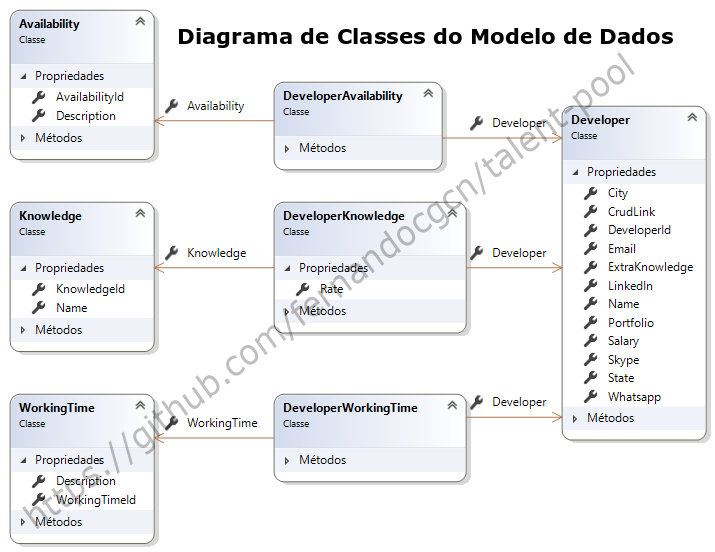
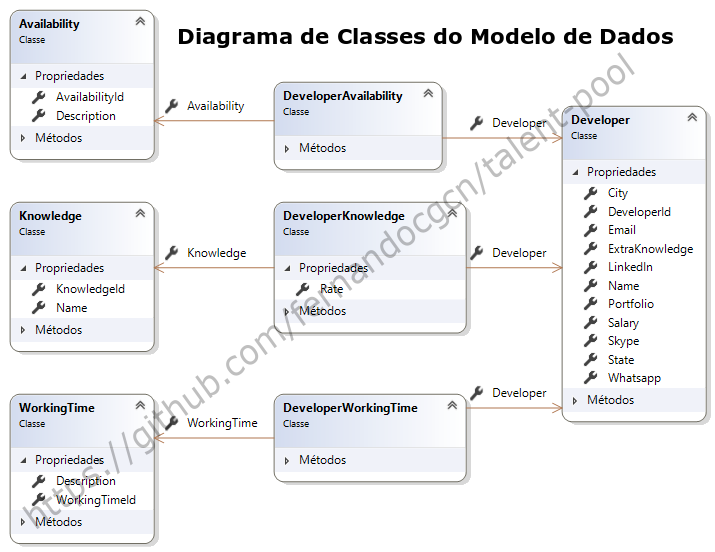
Exclusão do Atributo CrudLink

Changed region(s): [[0.6462, 0.3696, 1.0, 0.8007]]

diff --git a/src/TPData/Configurations/DeveloperConfiguration.cs b/src/TPData/Configurations/DeveloperConfiguration.cs
@@ -41,8 +41,6 @@ namespace TPData.Configurations
                 .HasColumnName("dev_portfolio");
             builder.Property(entity => entity.ExtraKnowledge)
                 .HasColumnName("dev_extra_knowledge");
-            builder.Property(entity => entity.CrudLink)
-                .HasColumnName("dev_crud_link");
 
             builder.HasKey(entity => entity.DeveloperId);
             builder.HasIndex(entity => entity.Email)

diff --git a/src/TPModel/Models/Developer.cs b/src/TPModel/Models/Developer.cs
@@ -47,9 +47,6 @@ namespace TPModel.Models
         [Display(Name = nameof(ExtraKnowledge), ResourceType = typeof(Labels))]
         public string ExtraKnowledge { get; set; }
 
-        [Display(Name = nameof(CrudLink), ResourceType = typeof(Labels))]
-        public string CrudLink { get; set; }
-
         public override bool Equals(object obj)
         {
             return obj is Developer developer &&
